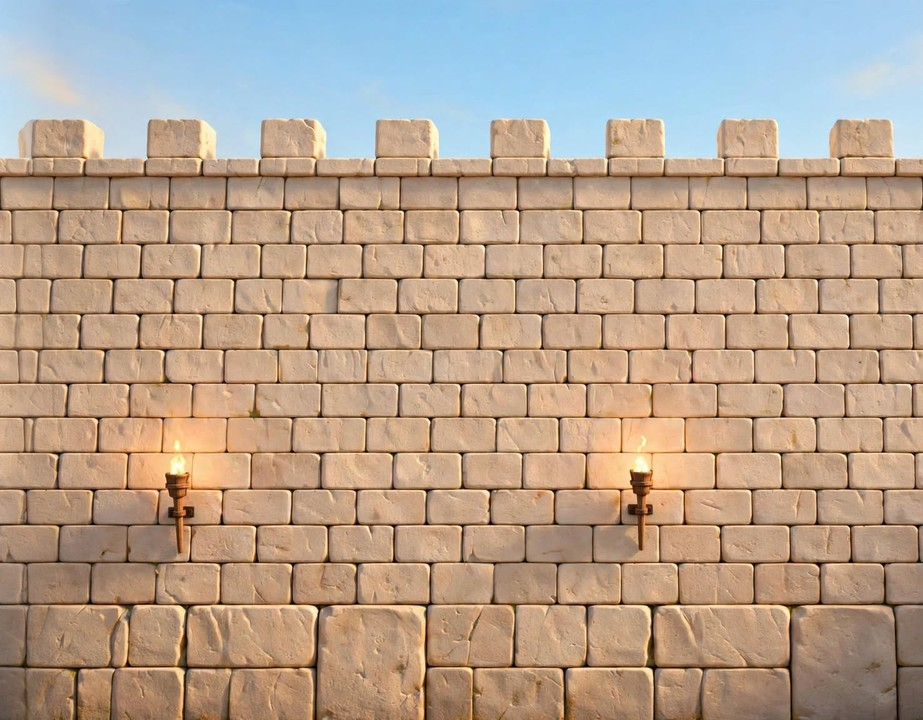
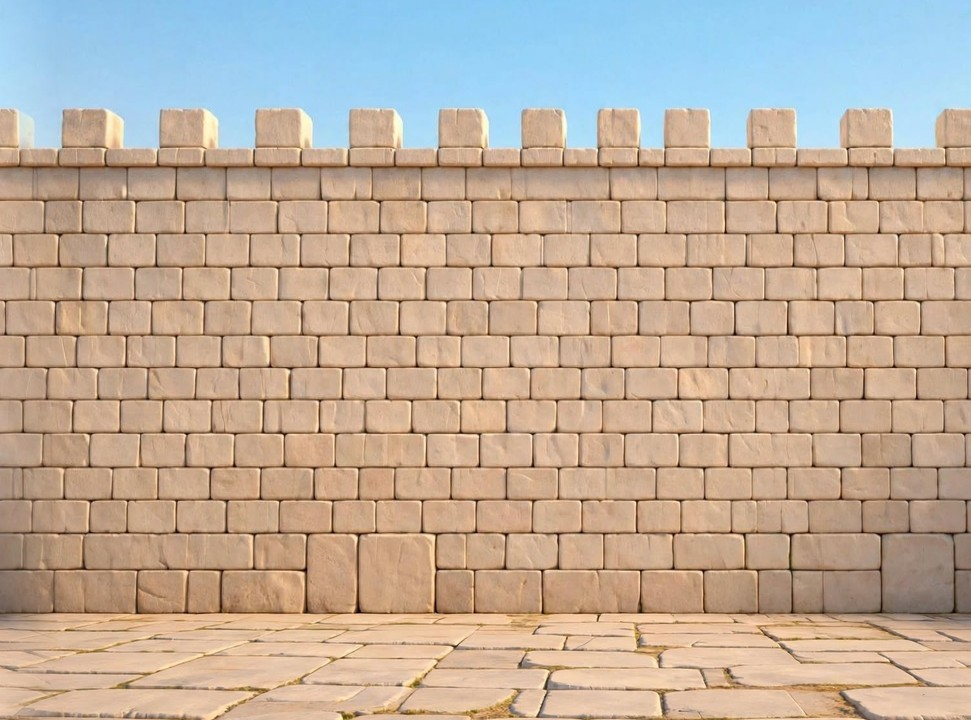
The Walls: Glen's second wall strip (its own paving), sized so its wall matches his painting's
Claude-Session: https://claude.ai/code/session_018JCxWMD3kHgBtcRycFGRiW

diff --git a/game/region.js b/game/region.js
@@ -79,7 +79,7 @@ const REGION = {
     { id: "town",    name: "The Town",         w: 74, bg: "w4_3", mx: 3, my: 2, mw: 3, left: "fields", right: "walls", art: "gibeah/town" },
     // (Glen 11-04: rooms like Mario levels, not 5 seconds long) the Walls: his wall strip repeating, his painting in the middle
     { id: "walls",   name: "The Walls",        w: 200, bg: "w4_2", mx: 6, my: 2, mw: 6, left: "town", art: "gibeah/walls", artAt: 70,
-      strip: "gibeah/wall_strip", floor: "gibeah/yard_floor", block: "gibeah/stone_block" },
+      strip: "gibeah/wall_strip", floor: "gibeah/yard_floor", block: "gibeah/stone_block" },   // (floor: the strip's own paving, over the ground)
     { id: "halls",   name: "The Palace Halls", w: 62, bg: "w4_4", mx: 6, my: 1, mw: 2, right: "harp" },
     { id: "harp",    name: "The Harp Room",    w: 34, bg: "w4_4", mx: 8, my: 1, mw: 1, left: "halls" },
     { id: "cellars", name: "The Cellars",      w: 64, cave: true, mx: 6, my: 3, mw: 2, art: "gibeah/cellars" },   // (Glen 11-04: the second try, painted to the red figures' scale)
@@ -576,7 +576,7 @@ function drawRegion(camX) {
       const fw = fl.naturalWidth, a = Math.max(rx, 0), b = Math.min(rx + rw, W);
       for (let x = rx + Math.floor((a - rx) / fw) * fw; x < b; x += fw) {
         const sx = Math.max(0, a - x), ex = Math.min(fw, b - x);
-        if (ex > sx) ctx.drawImage(fl, sx, 0, ex - sx, fl.naturalHeight, Math.round(x + sx), GR * T, ex - sx, H - GR * T);
+        if (ex > sx) ctx.drawImage(fl, sx, 0, ex - sx, fl.naturalHeight, Math.round(x + sx), H - fl.naturalHeight, ex - sx, fl.naturalHeight);   // (from a little above the ground line: covers the ground tiles' tufts)
       }
     }
     const bl = roomImg(r.block);
